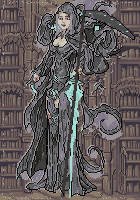
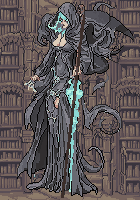
Reaper sprite packed; portrait back to the user's pick (R3 + scythe)

diff --git a/tools/pack.py b/tools/pack.py
@@ -74,6 +74,11 @@ CHARS = {
     "vampire": [("idle", None, 1), ("walk", "walking gracefully forward, cape flowing behind her", 10),
                 ("cast", "casting a blood spell, thrusting one clawed hand forward", 16),
                 ("attack", "slashing forward with long clawed fingers", 18)],
+    # ---- the Reaper (tools/reaper_art.py) ----
+    "reaper": [("idle", None, 1), ("walk", "gliding forward, cloak trailing, scythe held upright", 8),
+               ("attack", "sweeping the great scythe in a wide horizontal arc", 14),
+               ("cast", "raising one hand to cast spectral blue rune magic, scythe in the other hand", 12),
+               ("spin", "spinning in a full circle with the scythe held out", 14)],
     # ---- Act 3 (tools/act3_art.py) ----
     "ghoul": [("idle", None, 1), ("walk", "ghoul loping forward hunched over", 10), ("attack", "ghoul slashing with both claws", 14)],
     "werewolf": [("idle", None, 1), ("walk", "werewolf running forward on two legs", 11), ("attack", "werewolf slashing with its claws", 14)],
@@ -447,7 +452,7 @@ def pack_items():
                    ("portrait_inventor", "inventor/portrait_v3_220.png"),
                    # The user's picks (tools/class_portraits_v2.py and the guided redraws, 2026-10-05).
                    ("portrait_valkyrie", "valkyrie/full_h.png"), ("portrait_berserker", "berserker/b2guide_s450.png"),
-                   ("portrait_reaper", "reaper/face_s700.png")]:
+                   ("portrait_reaper", "reaper/scythe2_s550.png")]:
         p = GEN / src
         if not p.exists():
             continue
